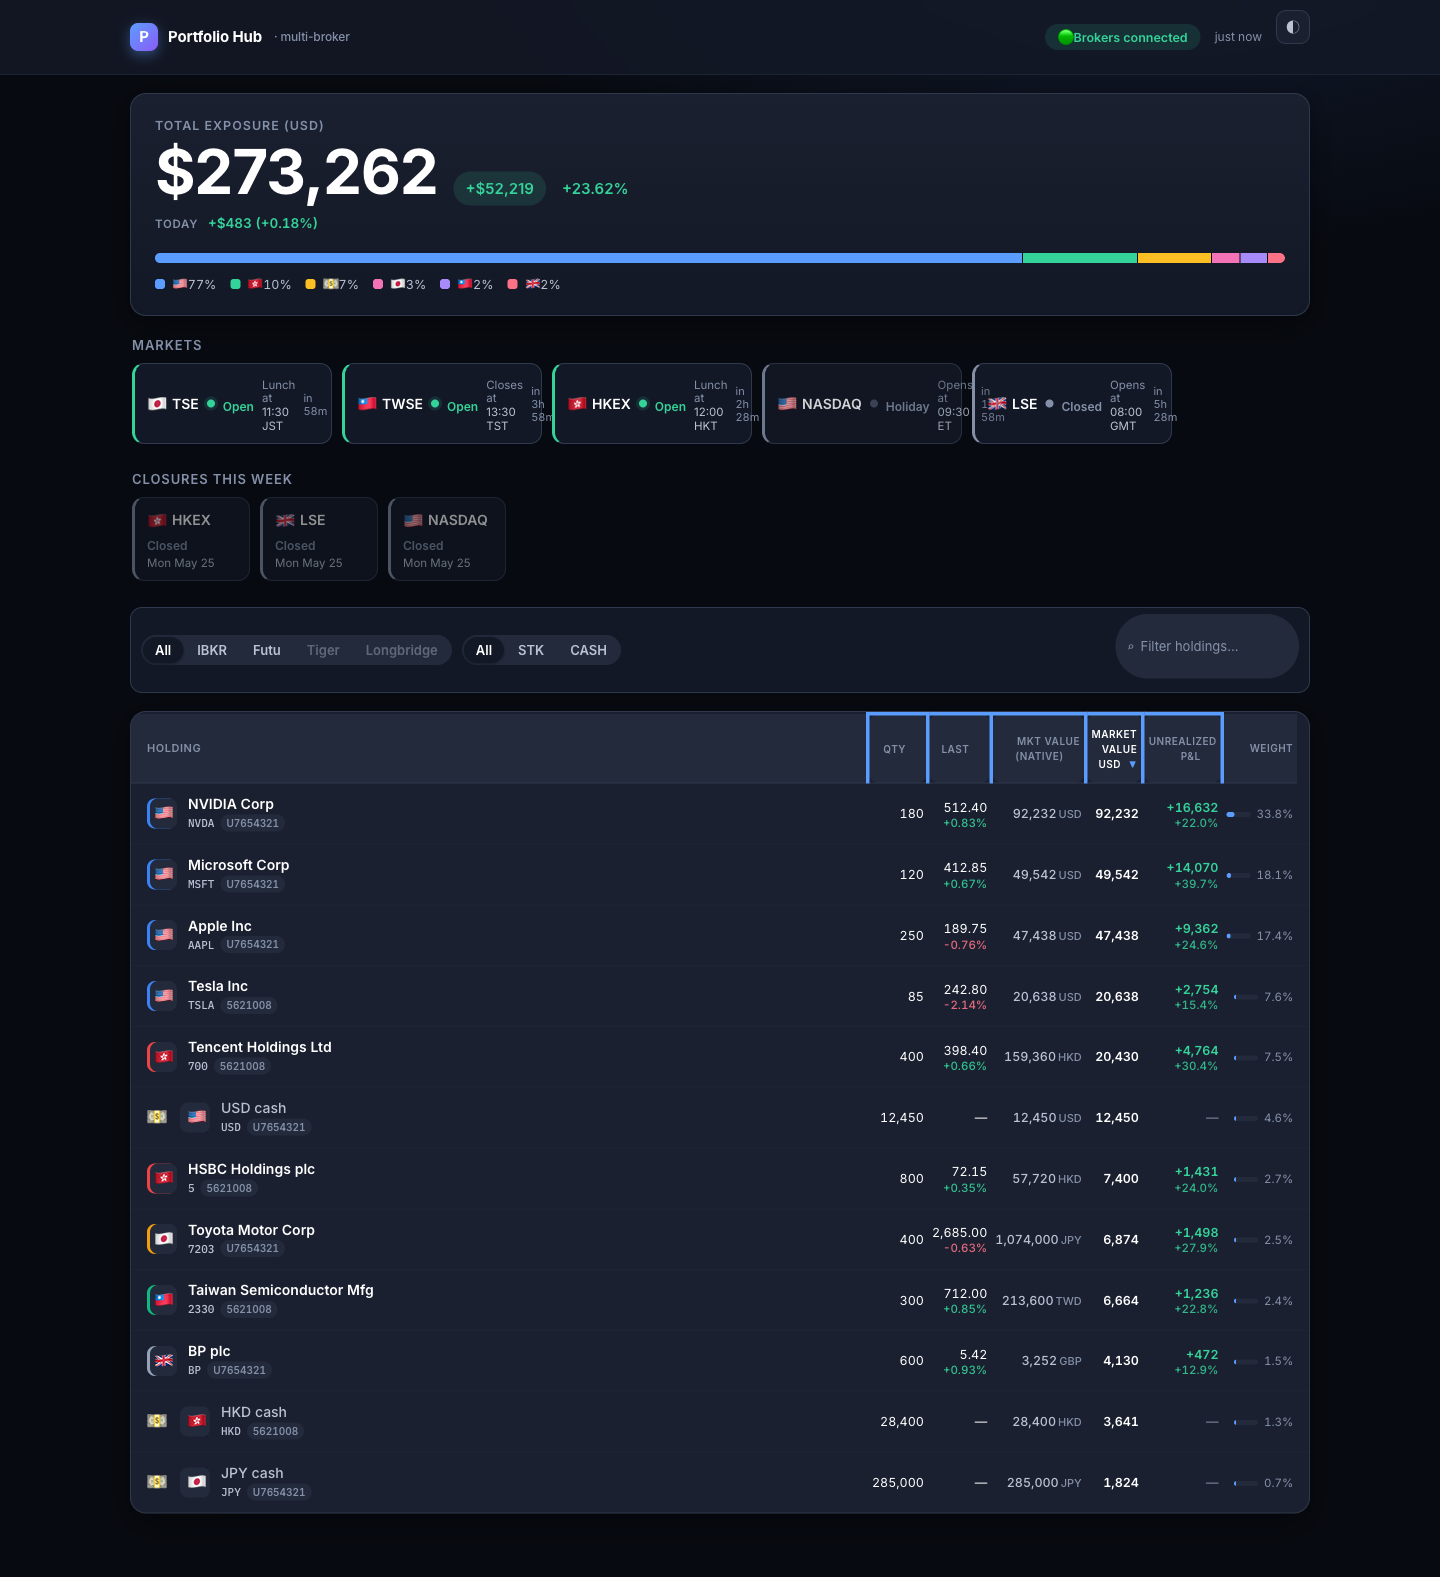
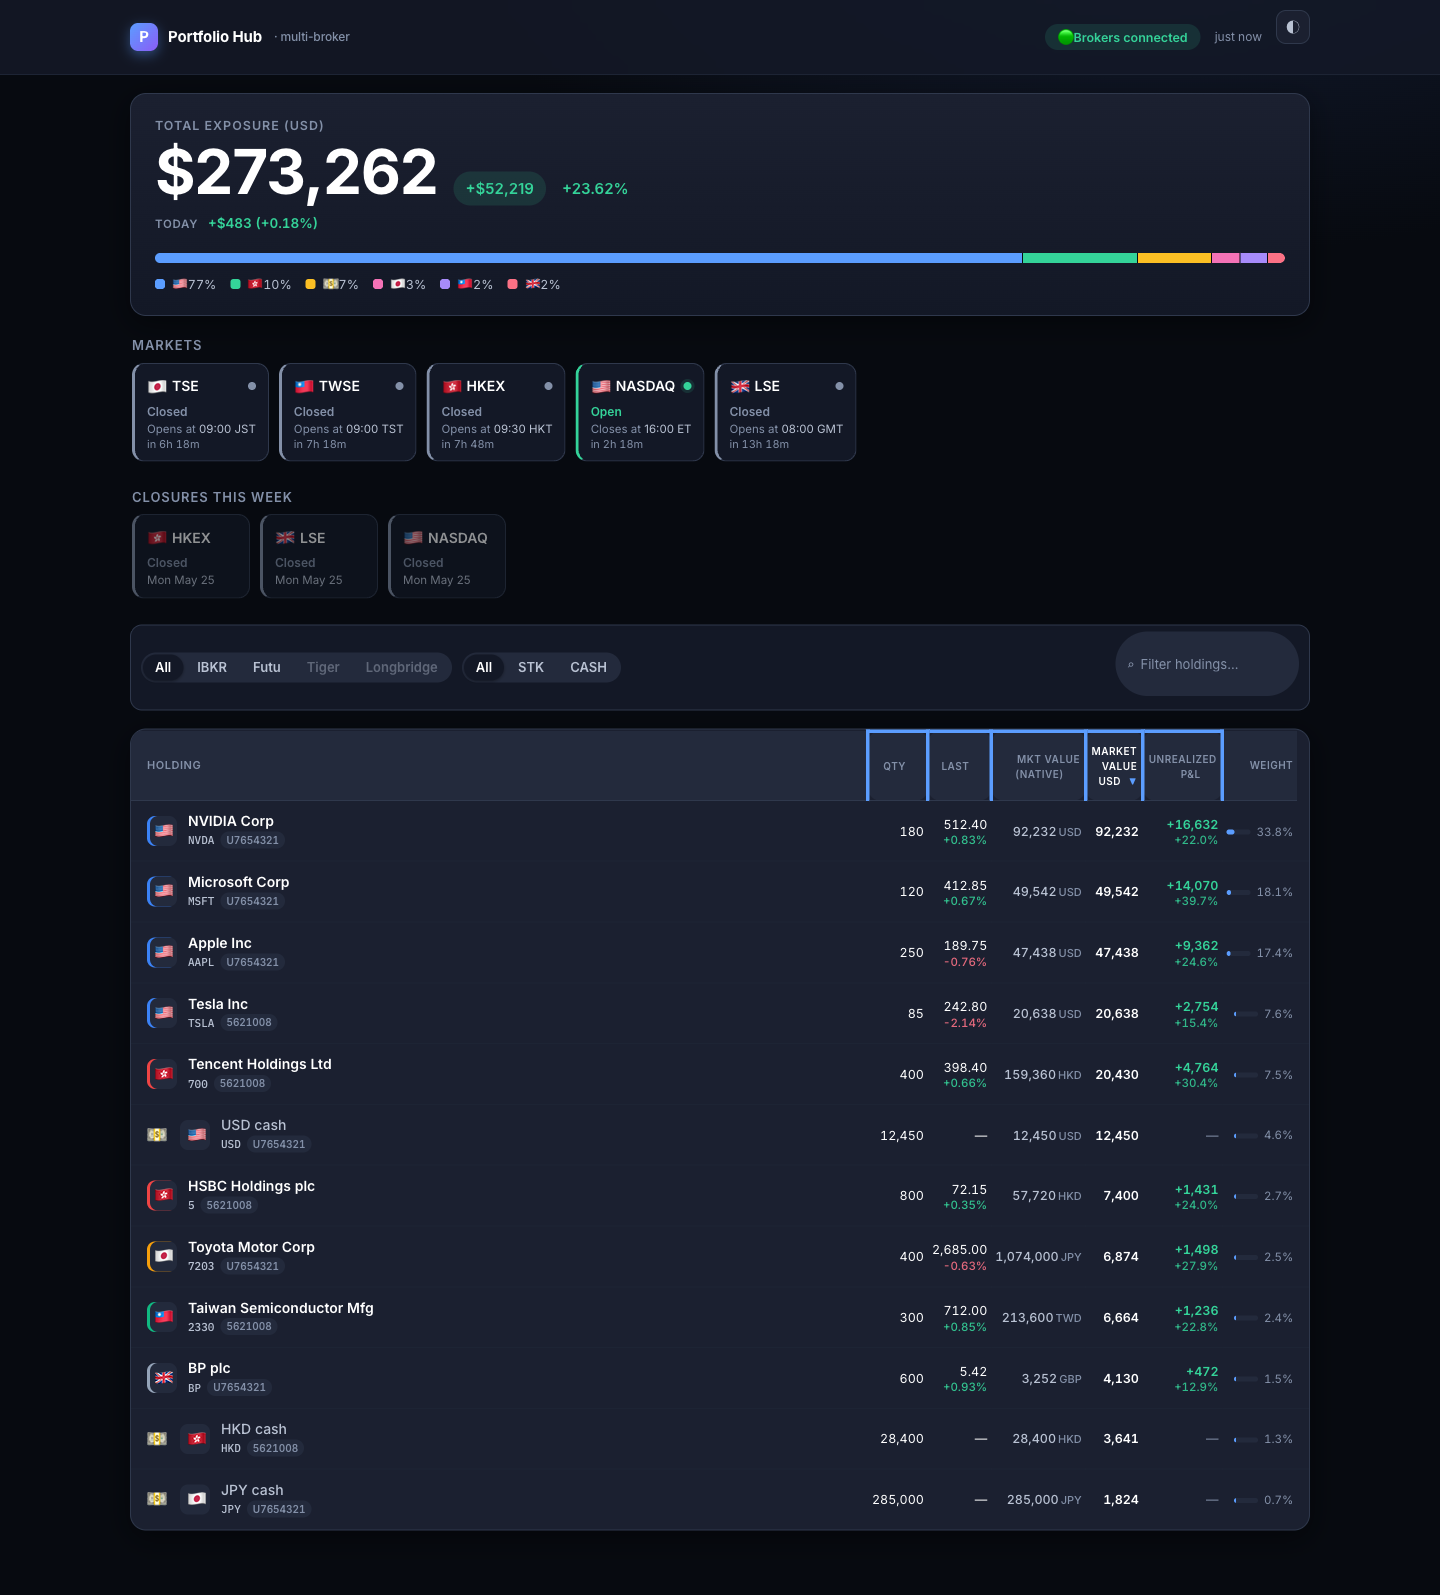
Fix market-card text overflow: closing tag mismatch
The head opened with <div class="market-card__head"> but closed with
</header>. The browser parser drops the orphan </header>, leaving the
state-label / transition / countdown elements nested inside the head
flex container — they flowed horizontally and pushed past the card's
right border instead of stacking below it.

Switched the open tag to <header> for semantic consistency with the
<article> wrapper. All text now fits inside the card boundary; refreshed
the three README screenshots to reflect the corrected layout.

diff --git a/app/templates/partials/market_card.html b/app/templates/partials/market_card.html
@@ -9,7 +9,7 @@
    survives even if an OS swaps a state glyph for a placeholder.
 #}
 <article class="market-card market-card--{{ market.state.value|lower }}" data-transition-iso="{{ market.next_transition_iso }}">
-<div class="market-card__head">
+<header class="market-card__head">
 <span class="market-card__flag">{{ flag }}</span>
 <span class="market-card__exchange">{{ market.exchange }}</span>
 <span class="market-card__state-dot market-card__state-dot--{{ market.state.value|lower }}" aria-hidden="true"></span>
